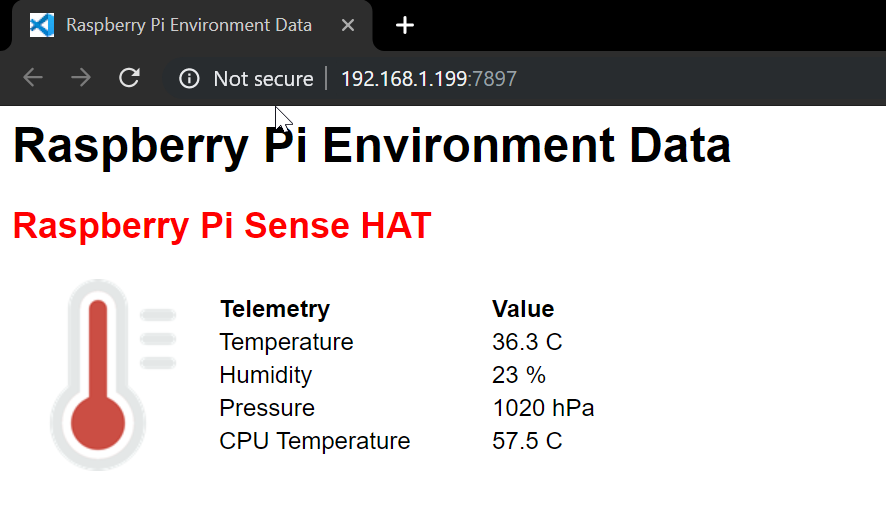
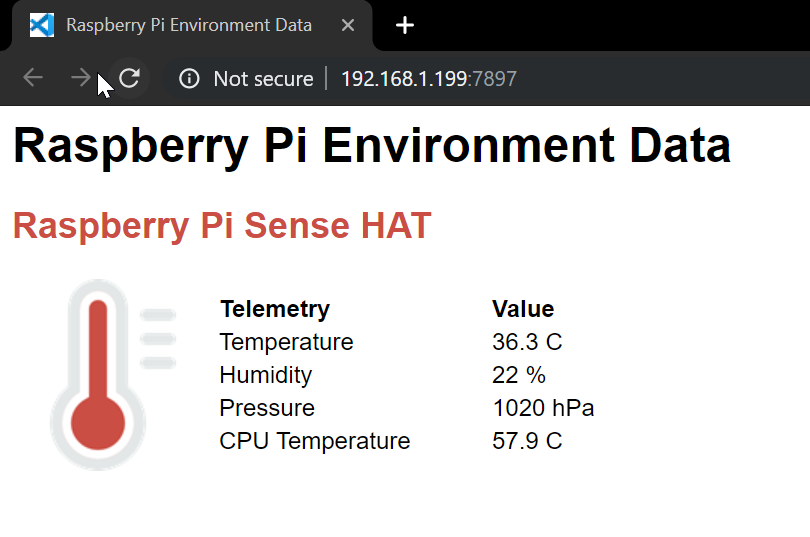
doco

diff --git a/Lab1-ssh-debug/static/style.css b/Lab1-ssh-debug/static/style.css
@@ -1,5 +1,5 @@
 a:link {
-    color: red;
+    color: #cb4e44;
     background-color: transparent;
     text-decoration: none;
     font-size: x-large;
@@ -7,19 +7,19 @@ a:link {
 }
 
 a:visited {
-    color: red;
+    color: #cb4e44;
     background-color: transparent;
     text-decoration: none;
 }
 
 a:hover {
-    color: red;
+    color: #cb4e44;
     background-color: transparent;
     text-decoration: underline;
 }
 
 a:active {
-    color: red;
+    color: #cb4e44;
     background-color: transparent;
     text-decoration: underline;
 }
